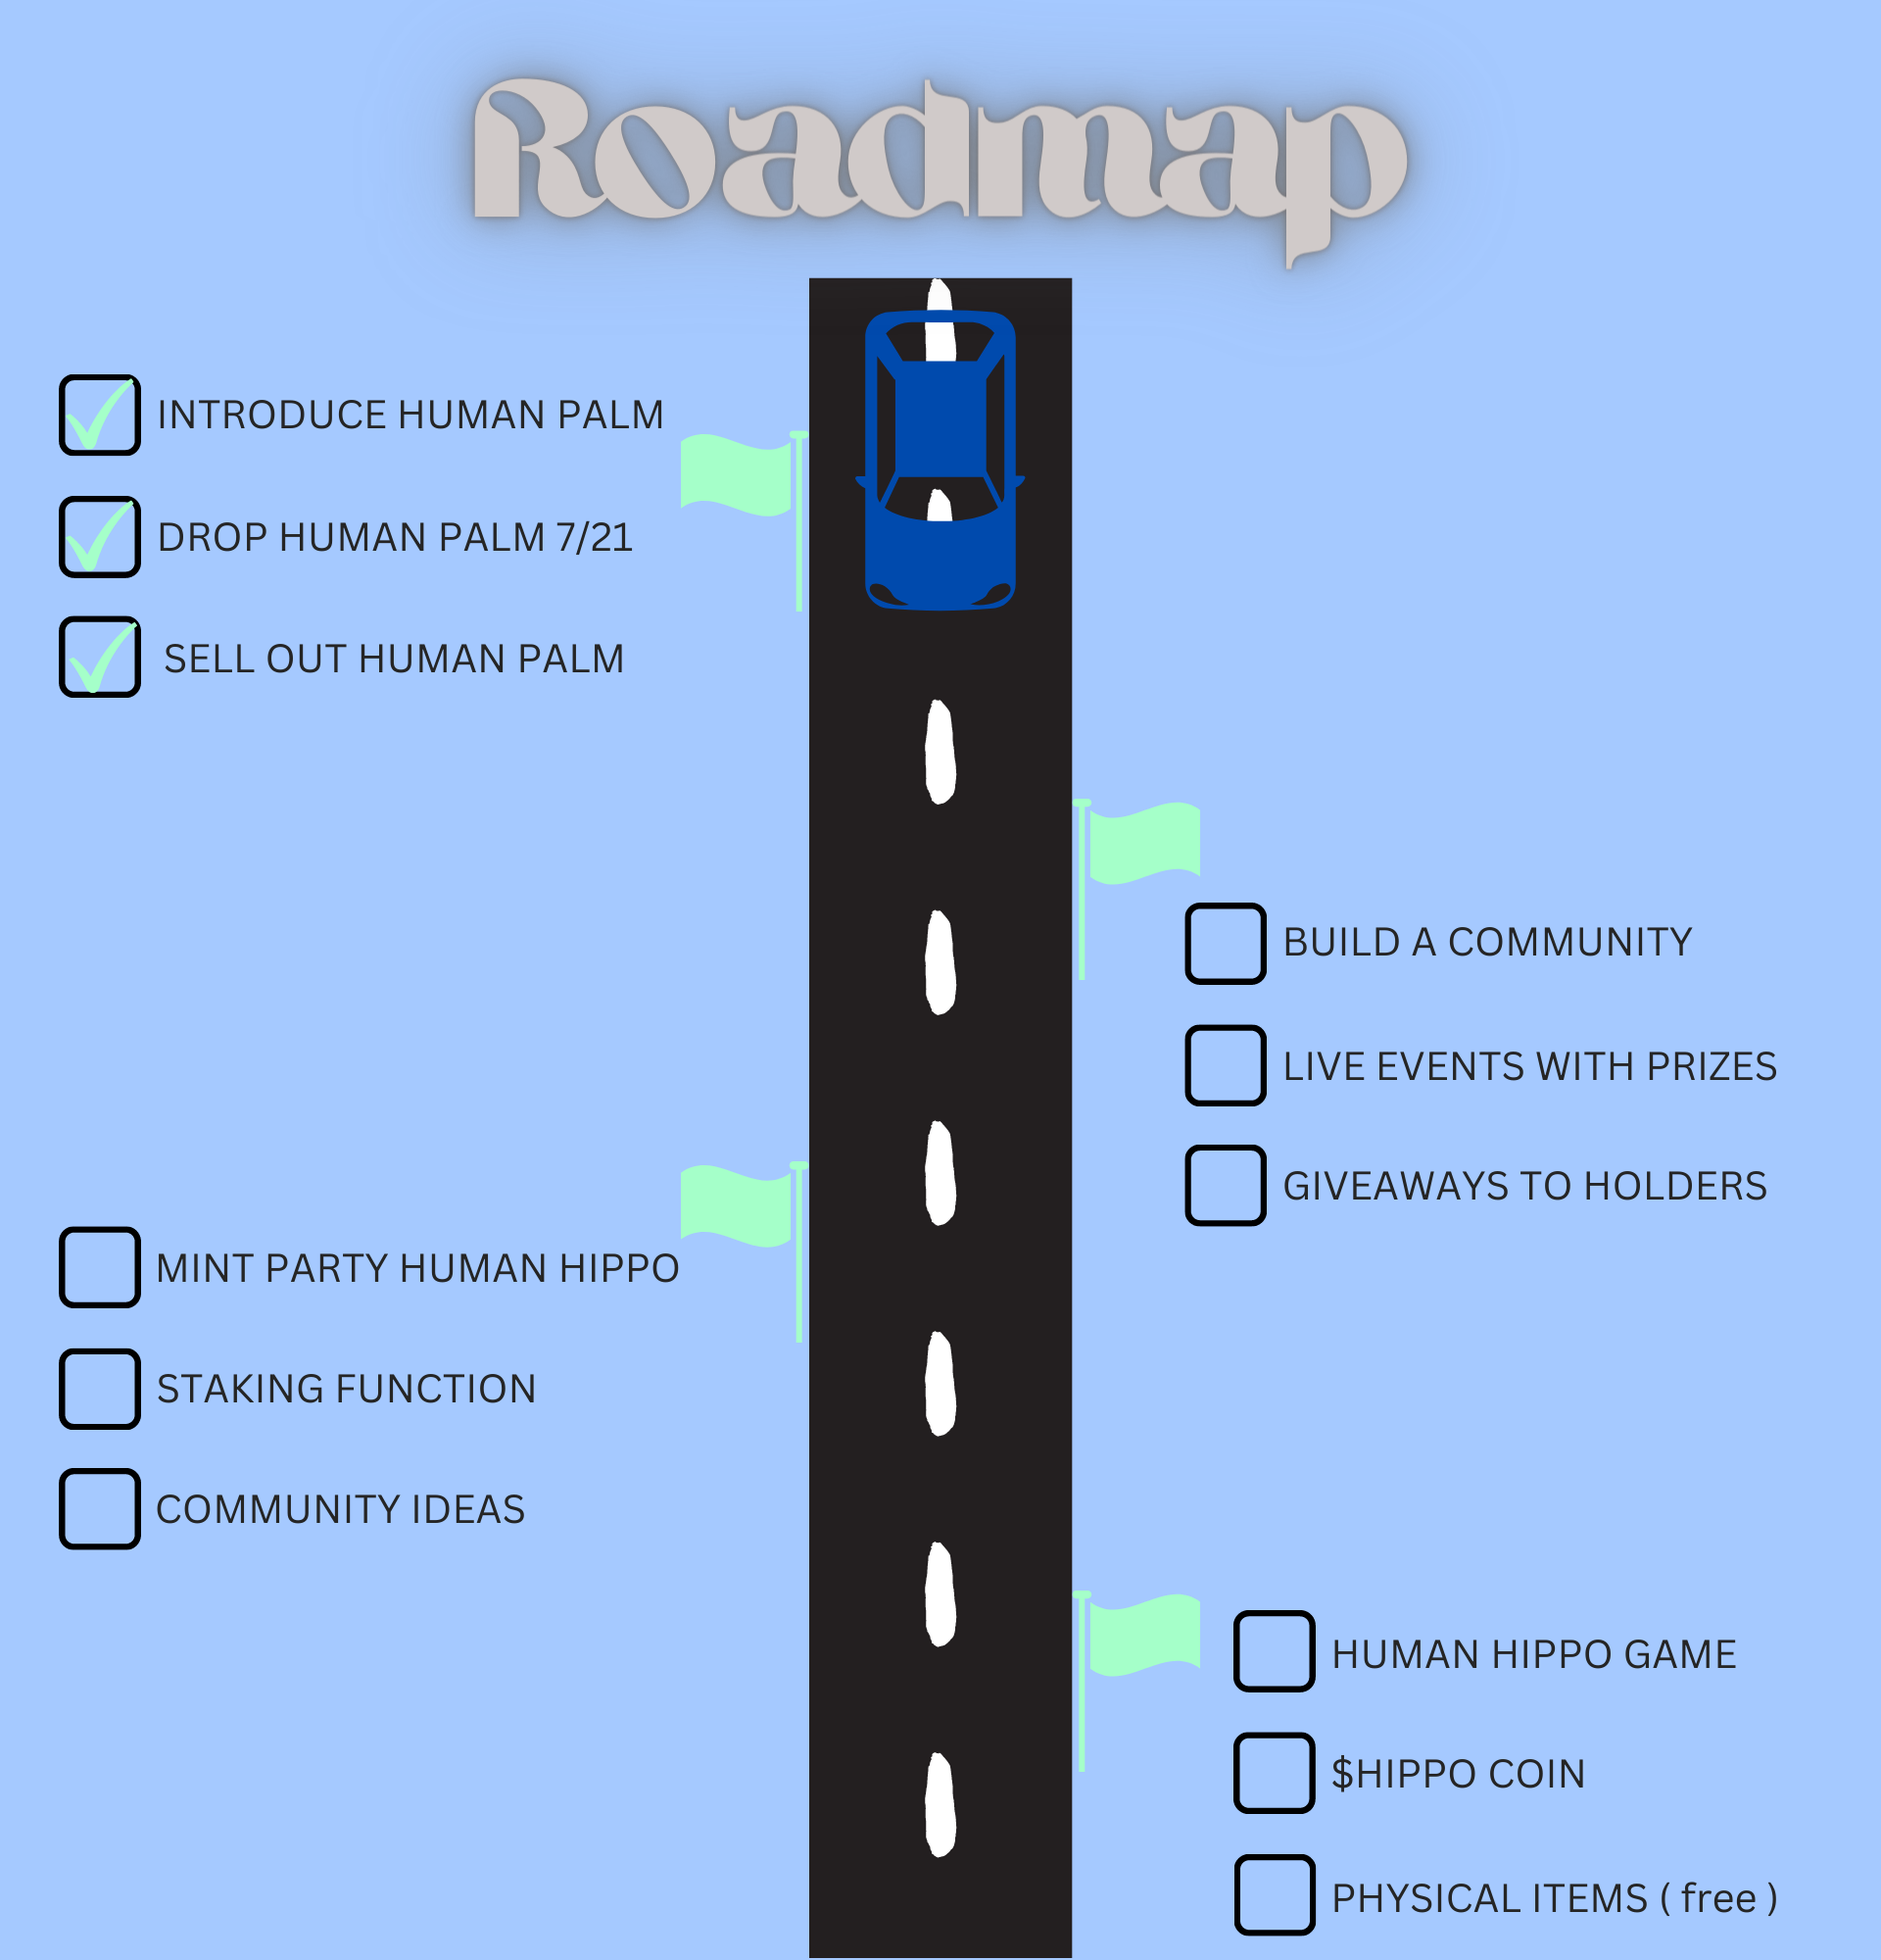
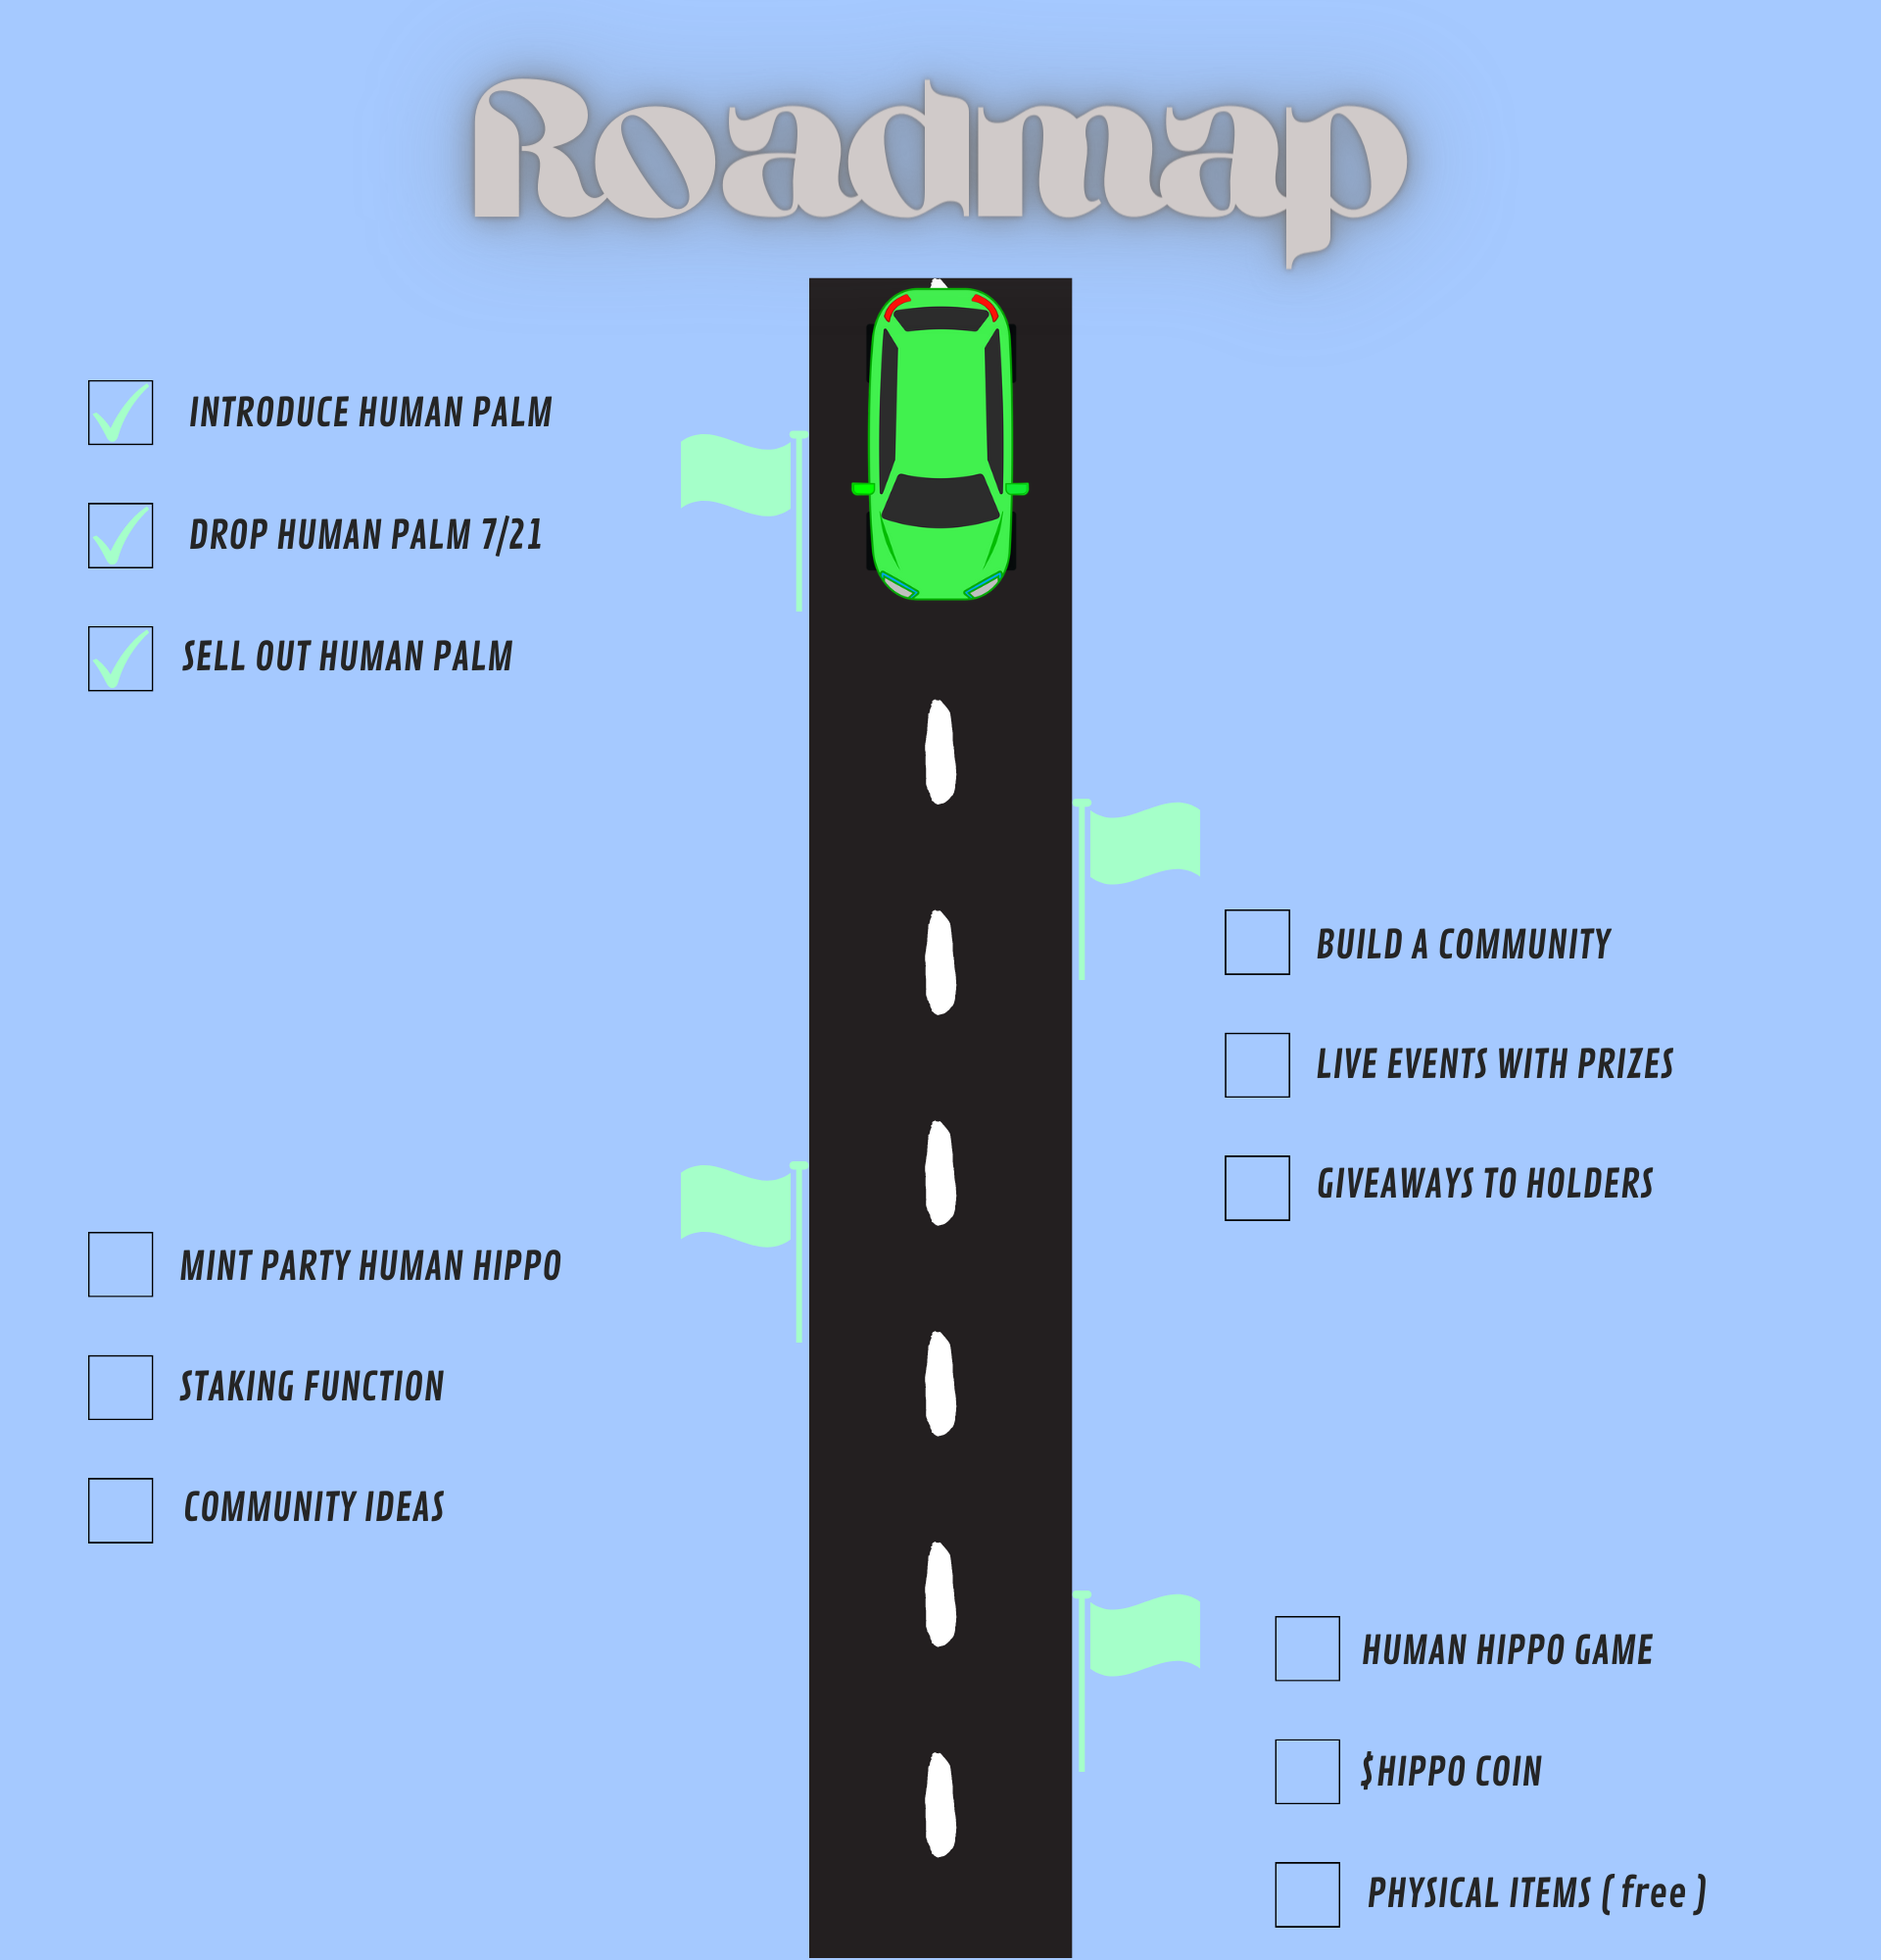
added new roadmap image fixed NFT structure image size

diff --git a/public/home.html b/public/home.html
@@ -69,7 +69,7 @@
 <br>
 <br>
   <div style="text-align:center">
-  <img src="./config/images/humanhippo3.gif" alt="hippo" style="width:1700px; max-width:100%;height:auto">
+  <img src="./config/images/humanhippo3.gif" alt="hippo" style="width:100%; max-width:100%;height:auto">
   </div>
   <br>
   <br>
